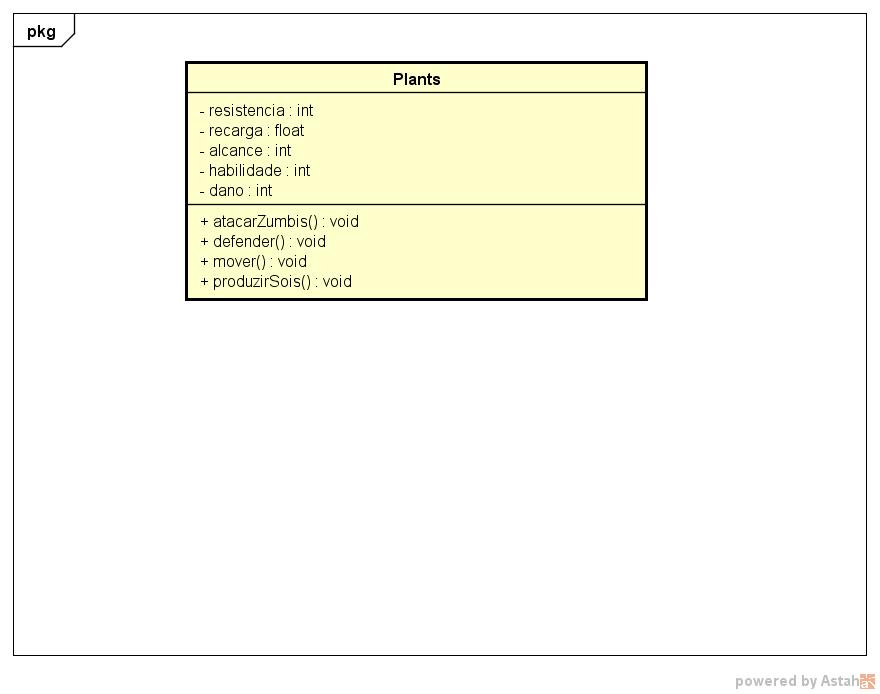
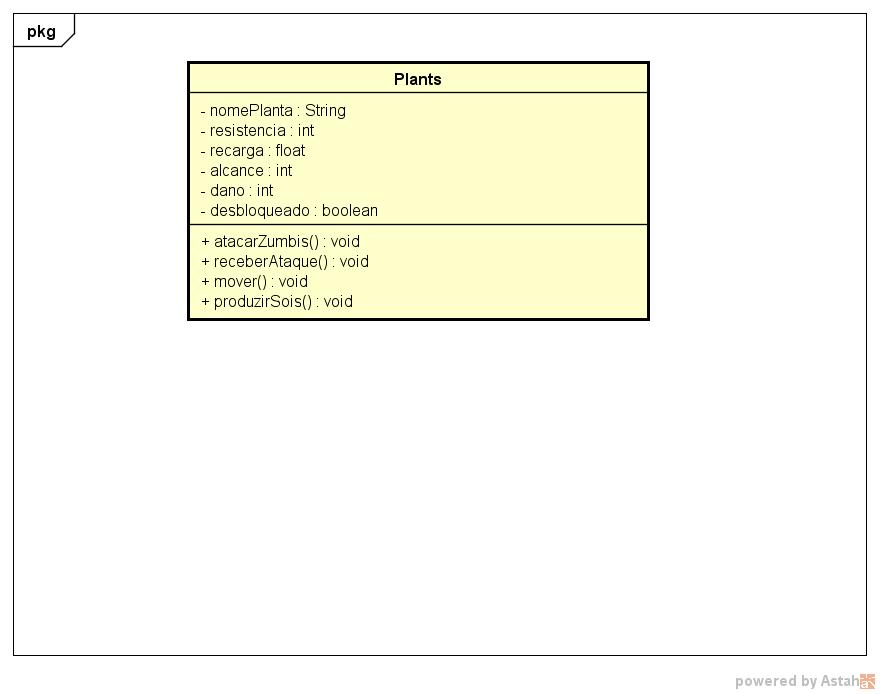
Foi removido o atributo habilidade; Foi acrescido o atributo nomePlanta : char e o atributo desbloqueado do tipo bool; Foi implementado o metodo receberAtaque; Foi removido o método defender.

Changed region(s): [[0.1841, 0.0908, 0.7364, 0.4841], [0.4602, 0.0908, 0.4909, 0.121]]

diff --git a/Plants.cpp b/Plants.cpp
@@ -1,15 +1,41 @@
 #include "Plants.h"
+#include <iostream>
+#include <string.h>
+using std::cout;
+
+
 
 Plants::Plants()
 {
+    nomePlanta = 0;
     resistencia = 100;
     recarga = 100;
-    alcance = ;
-    habilidade = ;
-    dano = ;
+    alcance = 0;
+    dano = 0;
+    desbloqueado = false;
 }
 
 Plants::~Plants()
 {
 }
 
+void Plants::receberAtaque( )
+{
+    if ( !desbloqueado )
+    {
+        resistencia = resistencia - 10;
+        cout << "Plant recebeu um ataque\n";
+    }
+    else
+        cout << "Plant bloqueado!" << '\n';    
+}
+
+void Plants::atacarZumbis( )
+{
+    if ( !desbloqueado )
+    {
+        cout << "Plant atacou\n";
+    }
+    else
+        cout << "Plant bloqueado!" << '\n';    
+}

diff --git a/Plants.h b/Plants.h
@@ -8,17 +8,18 @@ public:
     ~Plants();
 
     void atacarZumbis();
-    void defender();
+    void receberAtaque();
     void mover();
     void produzirSois();
 
 private:
 
+    char nomePlanta;
     int resistencia;
     float recarga;
     int alcance;
-    int habilidade;
     int dano;
+    bool desbloqueado;
     
 };
 
